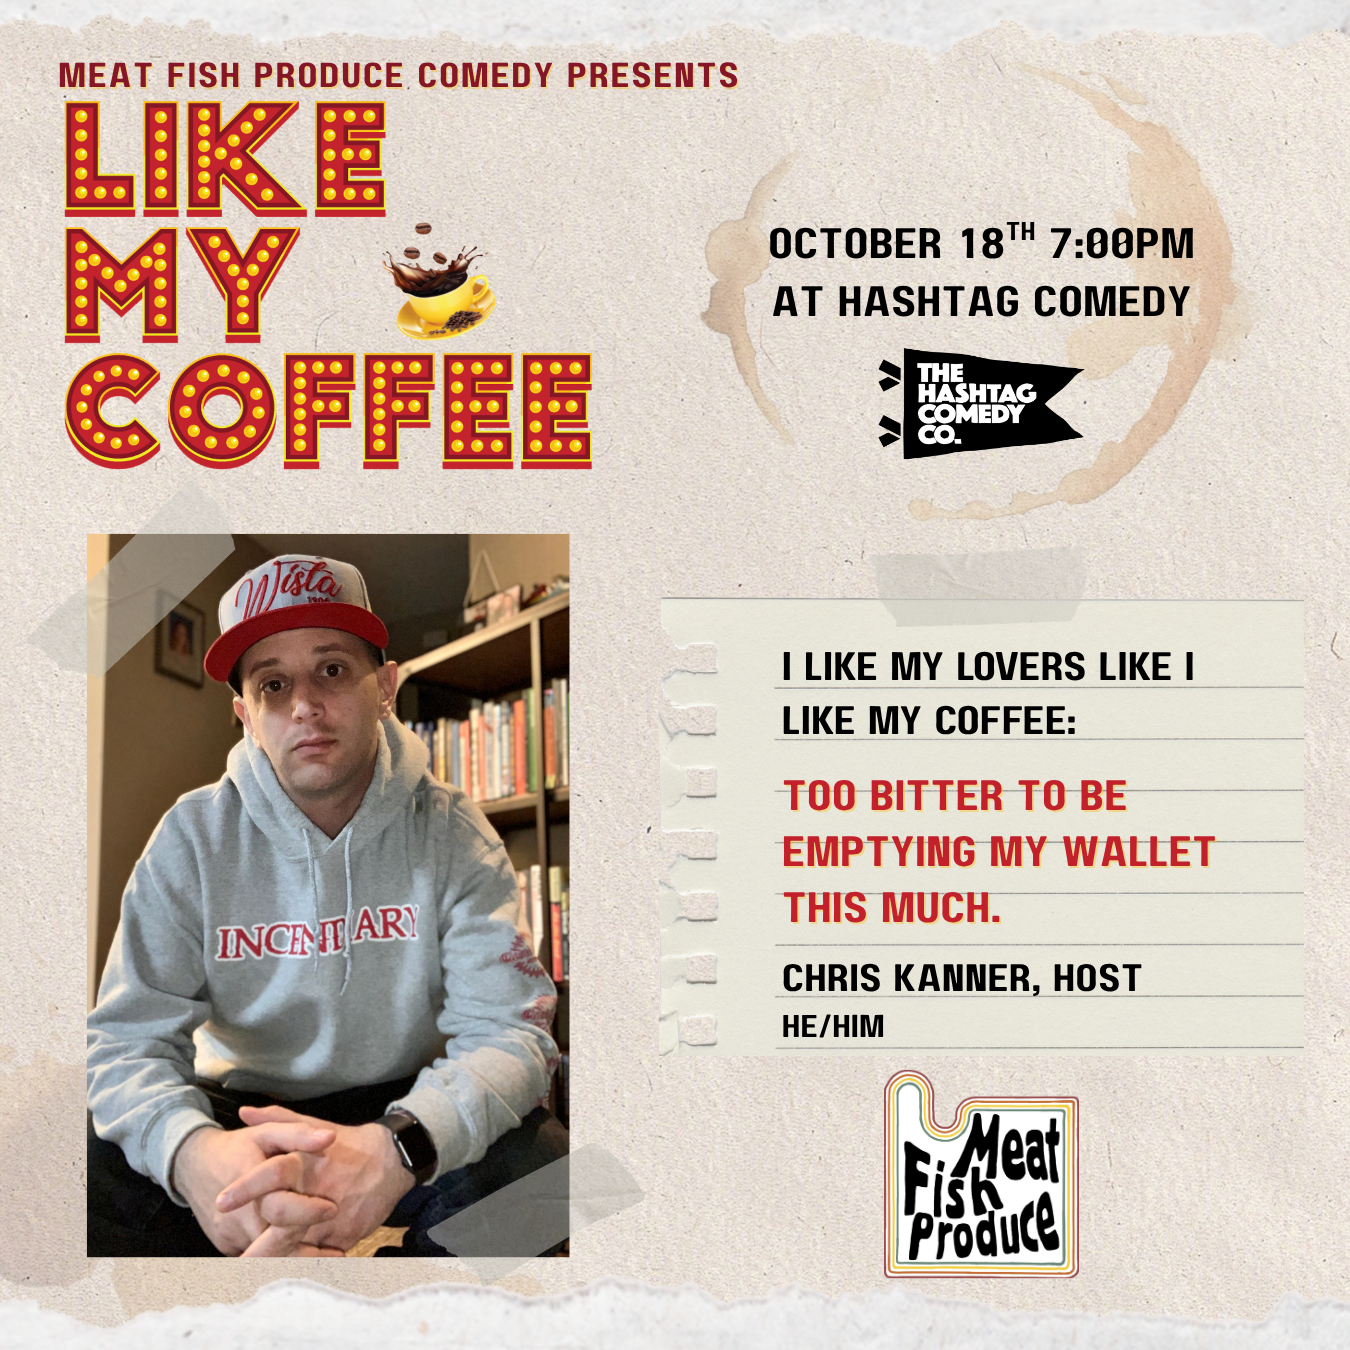
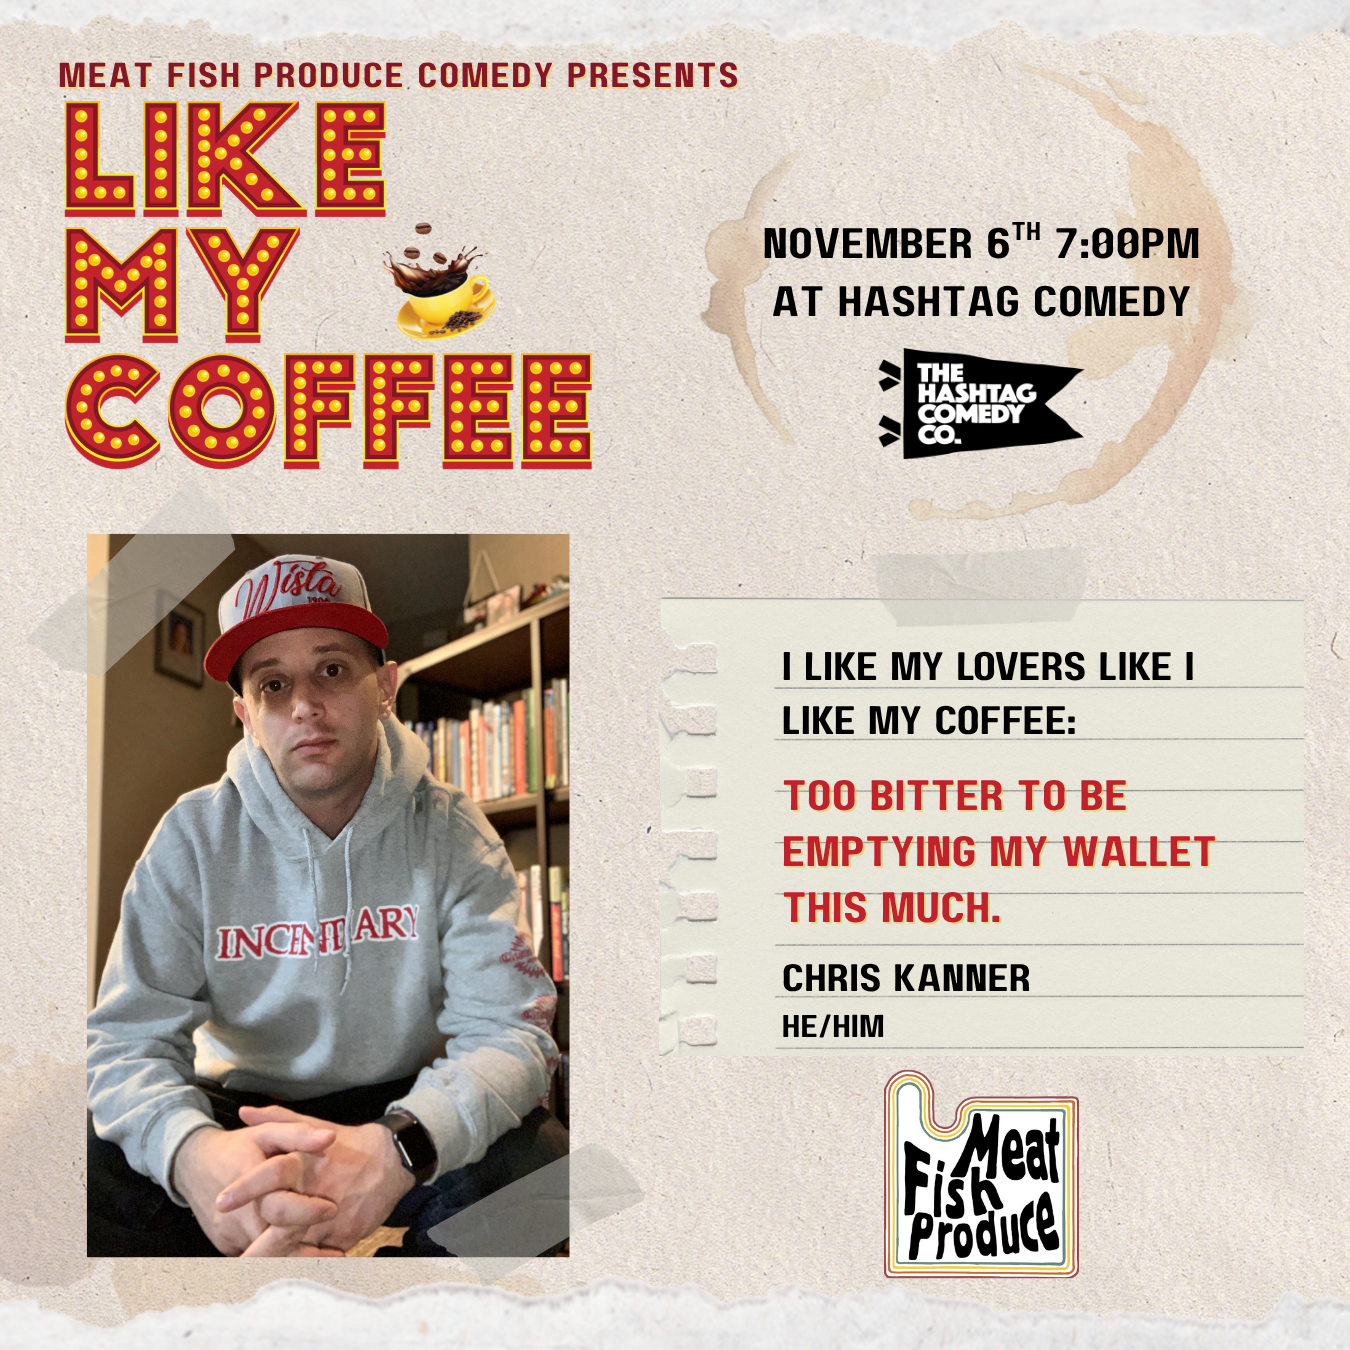
Updating for Nov 6 show

Changed region(s): [[0.56, 0.1556, 0.9022, 0.2178], [0.7778, 0.7156, 0.84, 0.7467], [0.6844, 0.28, 0.7467, 0.3111]]

diff --git a/server/src/shows/20261106.ts b/server/src/shows/20261106.ts
@@ -1,0 +1,156 @@
+import { ShowType } from "../../sharedCopy";
+import { minigames } from "./games";
+
+export const show: ShowType = {
+	rounds: [
+		{
+			players: [
+				{
+					displayName: "Patrick",
+					pronouns: "He/Him",
+					score: 0,
+					soundIndex: 0,
+					isWinner: false,
+				},
+				{
+					displayName: "Rina",
+					pronouns: "She/Her",
+					score: 0,
+					soundIndex: 1,
+					isWinner: false,
+				},
+				{
+					displayName: "Kade I.E.",
+					pronouns: "He/They",
+					score: 0,
+					soundIndex: 2,
+					isWinner: false,
+				},
+			],
+			minigame: minigames.scare.name,
+			example: minigames.scare.example,
+			timelength: 12,
+			prompts: [
+				"Something in your living room",
+				"Profession you want",
+				"Something you want",
+			],
+		},
+		{
+			players: [
+				{
+					displayName: "Indy",
+					pronouns: "They/Them",
+					score: 0,
+					soundIndex: 3,
+					isWinner: false,
+				},
+				{
+					displayName: "Victor",
+					pronouns: "He/Him",
+					score: 0,
+					soundIndex: 4,
+					isWinner: false,
+				},
+				{
+					displayName: "Sully",
+					pronouns: "He/Him",
+					score: 0,
+					soundIndex: 5,
+					isWinner: false,
+				},
+			],
+			minigame: minigames.sponsored.name,
+			example: minigames.sponsored.example,
+			timelength: 12,
+			prompts: [
+				"Something in your kitchen",
+				"Profession you work now",
+				"Something you need",
+			],
+		},
+		{
+			players: [
+				{
+					displayName: "Chris",
+					pronouns: "He/Him",
+					score: 0,
+					soundIndex: 6,
+					isWinner: false,
+				},
+				{
+					displayName: "J.D.",
+					pronouns: "He/Him",
+					score: 0,
+					soundIndex: 7,
+					isWinner: false,
+				},
+				{
+					displayName: "Mike",
+					pronouns: "He/Him",
+					score: 0,
+					soundIndex: 8,
+					isWinner: false,
+				},
+			],
+			minigame: minigames.communication.name,
+			example: minigames.communication.example,
+			timelength: 12,
+			prompts: [
+				"Something in your bathroom",
+				"Profession you hate",
+				"Something you hate",
+			],
+		},
+		{
+			players: [
+				{
+					displayName: "Dummy Data",
+					pronouns: "",
+					score: 0,
+					soundIndex: 9,
+					isWinner: false,
+				},
+				{
+					displayName: "Dummy Data",
+					pronouns: "",
+					score: 0,
+					soundIndex: 10,
+					isWinner: false,
+				},
+				{
+					displayName: "Dummy Data",
+					pronouns: "",
+					score: 0,
+					soundIndex: 11,
+					isWinner: false,
+				},
+			],
+			minigame: "",
+			example: "",
+			timelength: 10,
+			prompts: [
+				"Something in your Attic/Basement",
+				"Profession you're unqualified for",
+				"Something someone gave you",
+			],
+		},
+	],
+	images: [
+		"Chris.png",
+		"Indy.png",
+		"JD.png",
+		"Kade.png",
+		"Mike.png",
+		"Patrick.png",
+		"Rina.png",
+		"Sully.png",
+		"Victor.png",
+		"Lisa.png",
+		"GCAC.png",
+		"Linktree.png",
+		"AI.png",
+		"Apply.png",
+	],
+	logo: "logo.png",
+};

diff --git a/server/src/shows/archived/20261018.ts b/server/src/shows/archived/20261018.ts
@@ -1,5 +1,5 @@
-import { ShowType } from "../../sharedCopy";
-import { minigames } from "./games";
+import { ShowType } from "../../../sharedCopy";
+import { minigames } from "../games";
 
 export const show: ShowType = {
 	rounds: [

diff --git a/server/src/shows/index.ts b/server/src/shows/index.ts
@@ -1,2 +1,2 @@
 //Update where this points to before every new show!
-export * from "./20261018";
+export * from "./20261106";
